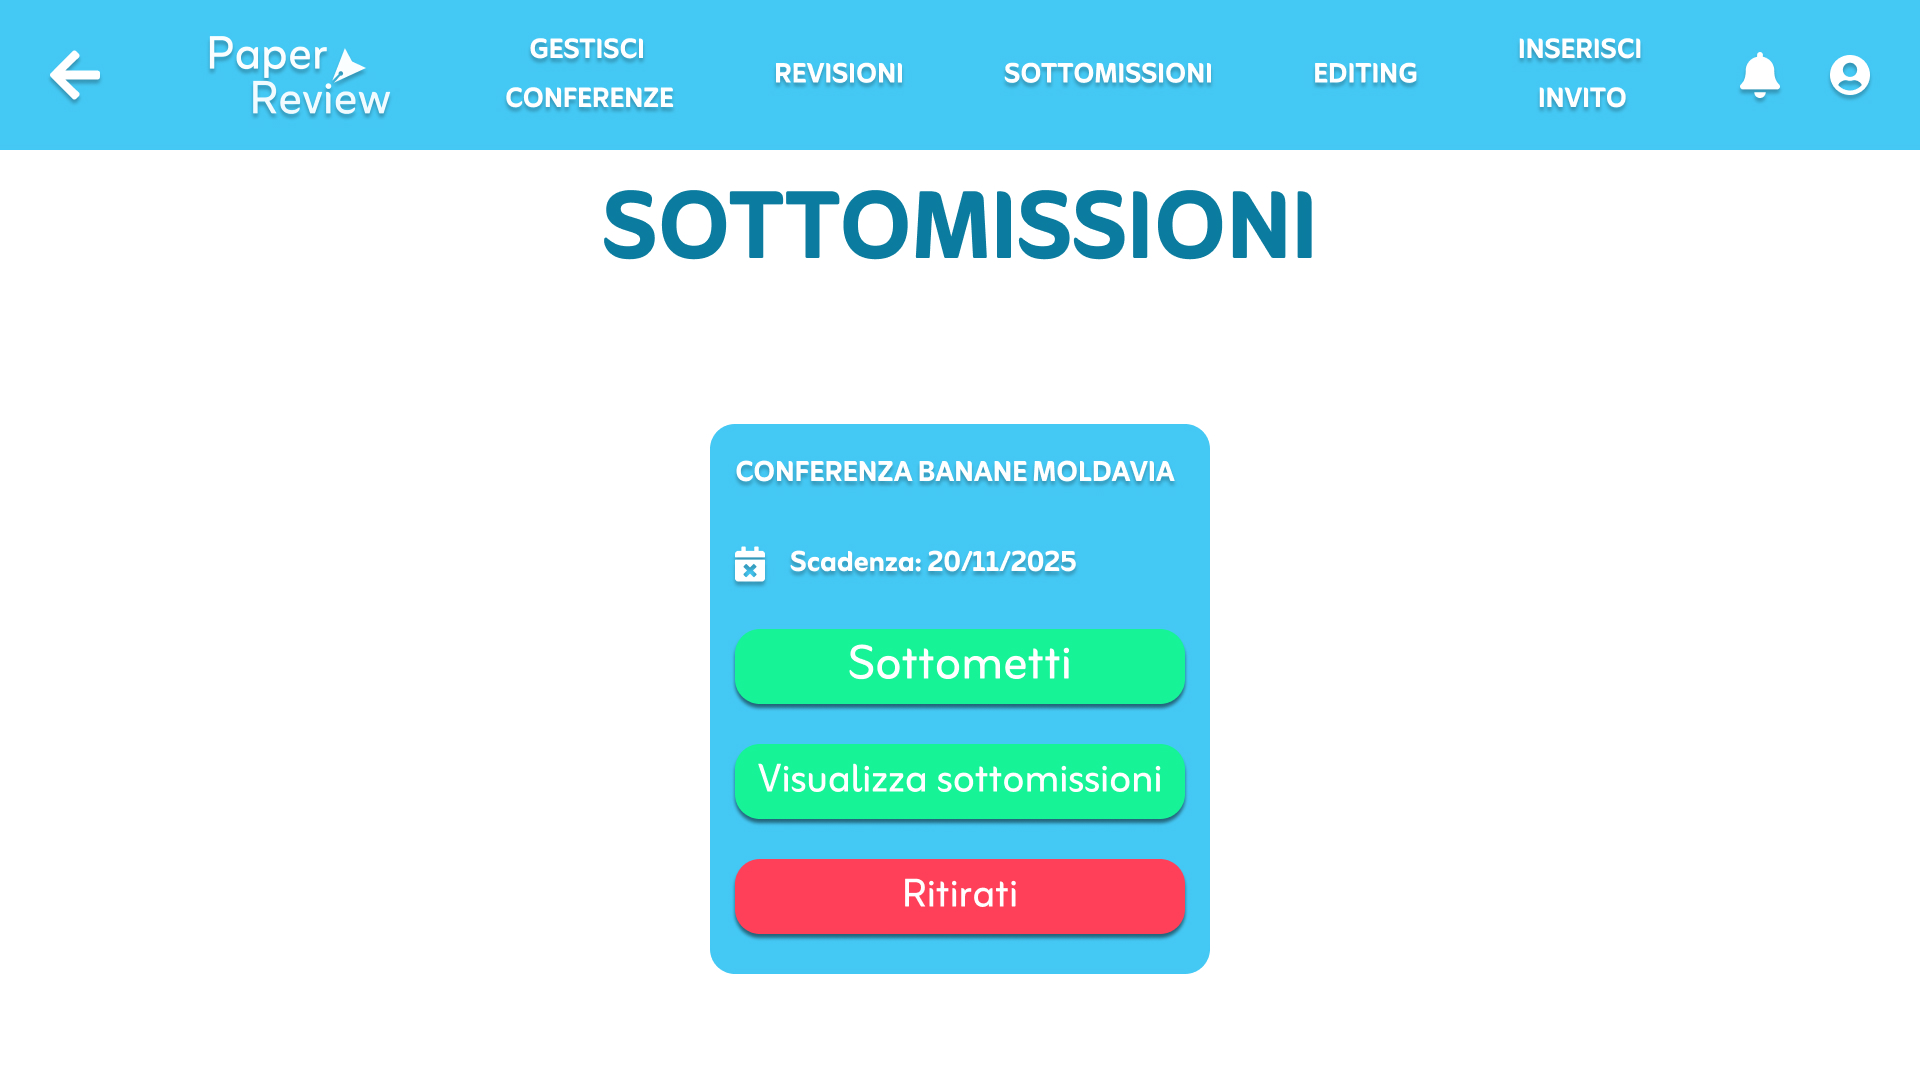
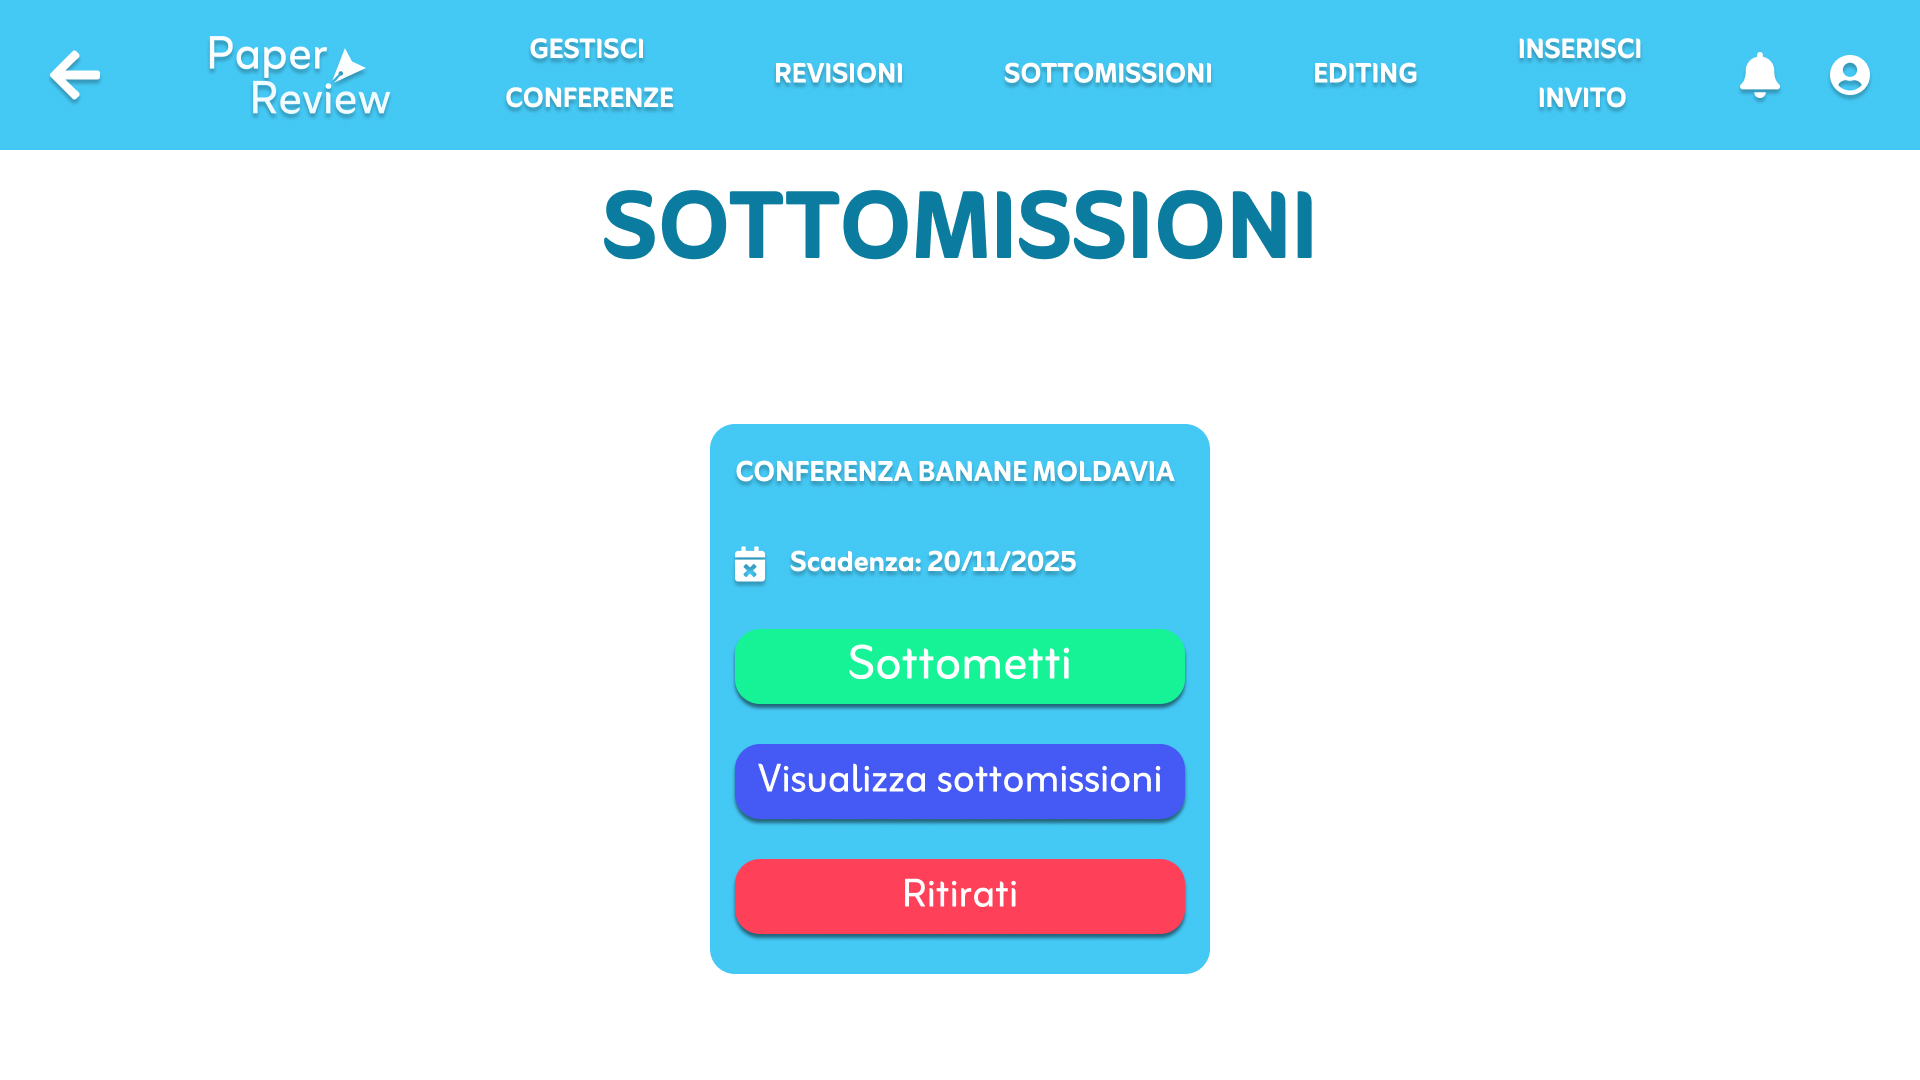
Piccole modifiche di QOL ed inizio sottomissioni

Changed region(s): [[0.375, 0.6722, 0.625, 0.7639]]

diff --git a/Codice/Paper Review/src/main/java/com/paperreview/paperreview/presentazioneArticolo/controls/VisualizzaSchermataSottomissioniControl.java b/Codice/Paper Review/src/main/java/com/paperreview/paperreview/presentazioneArticolo/controls/VisualizzaSchermataSottomissioniControl.java
@@ -1,0 +1,197 @@
+package com.paperreview.paperreview.presentazioneArticolo.controls;
+
+import com.paperreview.paperreview.common.CustomDateParser;
+import com.paperreview.paperreview.common.UserContext;
+import com.paperreview.paperreview.common.dbms.DBMSBoundary;
+import com.paperreview.paperreview.common.dbms.dao.ConferenzaDao;
+import com.paperreview.paperreview.common.dbms.dao.RuoloConferenzaDao;
+import com.paperreview.paperreview.common.interfaces.ControlledScreen;
+import com.paperreview.paperreview.controls.MainControl;
+import com.paperreview.paperreview.entities.ConferenzaEntity;
+import com.paperreview.paperreview.entities.Ruolo;
+import com.paperreview.paperreview.entities.RuoloConferenzaEntity;
+import javafx.fxml.FXML;
+import javafx.geometry.Insets;
+import javafx.geometry.Pos;
+import javafx.scene.Node;
+import javafx.scene.control.Alert;
+import javafx.scene.control.Button;
+import javafx.scene.control.ButtonType;
+import javafx.scene.control.Label;
+import javafx.scene.layout.*;
+import javafx.scene.paint.Color;
+import org.kordamp.ikonli.javafx.FontIcon;
+
+import java.sql.SQLException;
+import java.time.LocalDate;
+import java.util.List;
+
+public class VisualizzaSchermataSottomissioniControl implements ControlledScreen {
+
+    @FXML
+    private FlowPane conferenzeContainer;
+
+    private MainControl mainControl;
+
+    @Override
+    public void setMainController(MainControl mainControl) {
+        this.mainControl = mainControl;
+    }
+
+    public void initialize() {
+        try{
+
+            UserContext.setConferenzaAttuale(null);
+            UserContext.setStandaloneInteraction(false);
+
+            ConferenzaDao conferenzaDao = new ConferenzaDao(DBMSBoundary.getConnection());
+            List<ConferenzaEntity> conferenze = conferenzaDao.getAllWhereAutore(UserContext.getUtente().getId());
+
+            if(conferenze.isEmpty())
+            {
+                Label testo = new Label("Non hai ancora creato delle conferenze!");
+                testo.getStyleClass().addAll("font-bold", "text-rosso", "h5");
+                testo.setWrapText(true);
+                testo.setPrefWidth(500);
+                testo.setAlignment(Pos.CENTER);
+
+                conferenzeContainer.getChildren().add(testo);
+            }
+            else
+            {
+                for (ConferenzaEntity conferenza : conferenze) {
+                    Node card = creaConferenzaCard(conferenza);
+                    conferenzeContainer.getChildren().add(card);
+                }
+            }
+        } catch (Exception e) {
+            // TODO: Gestire questo errore
+            throw new RuntimeException(e);
+        }
+
+    }
+
+    private Node creaConferenzaCard(ConferenzaEntity conferenza) {
+        VBox card = new VBox(10);
+        card.getStyleClass().add("conference-card");
+        card.setPrefWidth(300);
+        card.setPadding(new Insets(15));
+
+        // Titolo
+
+        Label title = new Label(conferenza.getNome());
+        title.getStyleClass().addAll("h5", "text-bianco", "font-bold", "ombra");
+        title.setWrapText(true);
+
+        // Scadenza
+
+        FontIcon calendarIcon = new FontIcon("fas-calendar-times"); // icona calendario FontAwesome
+        calendarIcon.setIconSize(16);
+        calendarIcon.setIconColor(Color.WHITE); // o altro colore adatto
+        calendarIcon.getStyleClass().setAll("text-bianco", "ombra");
+
+        Label date = new Label(CustomDateParser.parseDate(conferenza.getDataConferenza()));
+        date.getStyleClass().addAll("h6", "text-bianco", "ombra", "font-light");
+
+        // Metti icona + label in un HBox con spacing
+        HBox dateBox = new HBox(5, calendarIcon, date);
+        dateBox.setAlignment(Pos.CENTER_LEFT);
+
+        /* SPACER */
+
+        /* SPACES (FLESSIBILI) */
+        Region spacer = new Region();
+        VBox.setVgrow(spacer, Priority.ALWAYS);
+
+        /* BOTTONI */
+
+        Button sottometti = new Button("Sottometti");
+        Button visualizzaSottomissioni = new Button("Visualizza sottomissioni");
+        Button ritirati = new Button("Ritirati");
+
+        sottometti.getStyleClass().addAll("green-button");
+        visualizzaSottomissioni.getStyleClass().addAll("blue-button");
+        ritirati.getStyleClass().addAll("red-button");
+
+        sottometti.setPrefWidth(Double.MAX_VALUE);
+        visualizzaSottomissioni.setPrefWidth(Double.MAX_VALUE);
+        ritirati.setPrefWidth(Double.MAX_VALUE);
+
+        sottometti.setOnAction(event -> handleSottometti(conferenza));
+        visualizzaSottomissioni.setOnAction(event -> handleVisualizzaSottomissioni(conferenza));
+        ritirati.setOnAction(event -> handleRitirati(conferenza, card));
+
+        /* COMPOSIZIONE: [Titolo] [Scadenza] [Spacer] [Bottoni] */
+
+        card.getChildren().addAll(title, dateBox, spacer, sottometti, visualizzaSottomissioni, ritirati);
+
+        return card;
+    }
+
+    public void handleSottometti(ConferenzaEntity conferenza)
+    {
+        UserContext.setConferenzaAttuale(conferenza);
+        mainControl.setView("/com/paperreview/paperreview/boundaries/presentazioneArticolo/sottomettiArticolo/sottomettiArticoloBoundary.fxml");
+    }
+
+    public void handleVisualizzaSottomissioni(ConferenzaEntity conferenza)
+    {
+        UserContext.setConferenzaAttuale(conferenza);
+        mainControl.setView("/com/paperreview/paperreview/boundaries/presentazioneArticolo/visualizzaSottomissioni/visualizzaSottomissioniBoundary.fxml");
+    }
+
+    public void handleRitirati(ConferenzaEntity conferenza,  VBox boxConferenza)
+    {
+
+        // Controlla se la data di scadenza per la sottomissione è già passata
+        if (LocalDate.now().isAfter(conferenza.getScadenzaSottomissione().toLocalDate())) {
+            Alert expiredAlert = new Alert(Alert.AlertType.WARNING);
+            expiredAlert.setTitle("Operazione non consentita");
+            expiredAlert.setHeaderText(String.format(
+                    "La scadenza per ritirarsi dalla conferenza \"%s\" è già passata.",
+                    conferenza.getNome()
+            ));
+            expiredAlert.setContentText("Non puoi più ritirarti dopo la scadenza delle sottomissioni.");
+            expiredAlert.showAndWait();
+            return;
+        }
+
+        Alert alert = new Alert(Alert.AlertType.CONFIRMATION);
+        alert.setTitle("Conferma ritiro conferenza");
+        alert.setHeaderText(String.format("Vuoi veramente ritirarti dalla conferenza %s?", conferenza.getNome()));
+        alert.setContentText("Premi OK per confermare, oppure Annulla per annullare.");
+
+        // Aggiungi le opzioni OK e Annulla
+        ButtonType buttonTypeOK = ButtonType.OK;
+        ButtonType buttonTypeCancel = ButtonType.CANCEL;
+        alert.getButtonTypes().setAll(buttonTypeOK, buttonTypeCancel);
+
+        // Mostra il popup e gestisci la risposta dell'utente
+        alert.showAndWait().ifPresent(response -> {
+            if (response == buttonTypeOK) {
+
+                try{
+                    RuoloConferenzaDao ruoloConferenzaDao = new RuoloConferenzaDao(DBMSBoundary.getConnection());
+                    RuoloConferenzaEntity ruoloConferenzaEntity = ruoloConferenzaDao.getByRuoloUtenteAndConferenza(Ruolo.Autore, UserContext.getUtente().getId(), conferenza.getId());
+                    ruoloConferenzaDao.delete(ruoloConferenzaEntity);
+
+                    Alert alert2 = new Alert(Alert.AlertType.INFORMATION);
+                    alert2.setTitle("Conferma ritiro conferenza");
+                    alert2.setHeaderText(String.format(
+                            "Siamo spiacenti che tu abbia deciso di ritirarti dalla conferenza \"%s\". Speriamo di rivederti presto!",
+                            conferenza.getNome()
+                    ));
+                    alert2.setContentText("Premi ok per continuare!");
+                    alert2.showAndWait();
+
+                    conferenzeContainer.getChildren().remove(boxConferenza);
+                }catch(Exception e){
+                    e.printStackTrace();
+                    // TODO: GESTIRE BENE QUEST' ERRORE
+                }
+            }
+        });
+    }
+
+}
+

diff --git a/Codice/Paper Review/src/main/java/com/paperreview/paperreview/common/dbms/dao/ConferenzaDao.java b/Codice/Paper Review/src/main/java/com/paperreview/paperreview/common/dbms/dao/ConferenzaDao.java
@@ -72,6 +72,24 @@ public class ConferenzaDao extends BaseDao<ConferenzaEntity> {
         return results;
     }
 
+    public List<ConferenzaEntity> getAllWhereAutore(int ref_autore){
+        List<ConferenzaEntity> results = new ArrayList<>();
+        String query = "SELECT * FROM " + tableName + " WHERE data_conferenza > ? AND id_conferenza IN (SELECT ref_conferenza FROM Ruolo_conferenza WHERE ruolo = 'Autore' AND ref_utente = ?) ORDER BY data_conferenza";
+        try (PreparedStatement stmt = connection.prepareStatement(query)) {
+            stmt.setTimestamp(1, Timestamp.valueOf(LocalDateTime.now())); // Imposta la data attuale
+            stmt.setInt(2, ref_autore); // Imposta la data attuale
+            try (ResultSet rs = stmt.executeQuery()) {
+                while (rs.next()) {
+                    results.add(mapRow(rs)); // Aggiungi ogni riga trovata
+                }
+            }
+        } catch (SQLException e) {
+            e.printStackTrace();
+        }
+
+        return results;
+    }
+
     @Override
     protected String getInsertQuery() {
         return "INSERT INTO " + tableName + " (nome, descrizione, data_conferenza, location, metodo_assegnazione, metodo_valutazione, paper_previsti, " +

diff --git a/Codice/Paper Review/src/main/java/com/paperreview/paperreview/entities/InvitoEntity.java b/Codice/Paper Review/src/main/java/com/paperreview/paperreview/entities/InvitoEntity.java
@@ -155,9 +155,22 @@ public class InvitoEntity extends BaseEntity {
     }
 
     public static String generaCodice() {
-        int primoBlocco = (int) (Math.random() * 900) + 100; // genera numero tra 100 e 999
-        int secondoBlocco = (int) (Math.random() * 900) + 100; // genera numero tra 100 e 999
-        return String.format("%03d-%03d", primoBlocco, secondoBlocco);
+        String chars = "ABCDEFGHIJKLMNOPQRSTUVWXYZabcdefghijklmnopqrstuvwxyz0123456789";
+        StringBuilder sb = new StringBuilder();
+
+        for (int i = 0; i < 3; i++) {
+            int idx = (int)(Math.random() * chars.length());
+            sb.append(chars.charAt(idx));
+        }
+
+        sb.append('-');
+
+        for (int i = 0; i < 3; i++) {
+            int idx = (int)(Math.random() * chars.length());
+            sb.append(chars.charAt(idx));
+        }
+
+        return sb.toString();
     }
 
     public static InvitoEntity creaInvito(String email, Ruolo ruolo, int refConferenza, int refMittente, Integer refDestinatario, LocalDateTime scadenza) {

diff --git a/Codice/Paper Review/src/main/java/com/paperreview/paperreview/gestioneConferenze/controls/GestioneConferenzeControl.java b/Codice/Paper Review/src/main/java/com/paperreview/paperreview/gestioneConferenze/controls/GestioneConferenzeControl.java
@@ -33,6 +33,10 @@ public class GestioneConferenzeControl implements ControlledScreen {
 
     public void initialize() {
         try{
+
+            UserContext.setConferenzaAttuale(null);
+            UserContext.setStandaloneInteraction(false);
+
             ConferenzaDao conferenzaDao = new ConferenzaDao(DBMSBoundary.getConnection());
             List<ConferenzaEntity> conferenze = conferenzaDao.getAll(UserContext.getUtente().getId());
 
@@ -133,7 +137,7 @@ public class GestioneConferenzeControl implements ControlledScreen {
         buttonGrid.setMaxWidth(500);
 
         Button buttonPosticipaScadenze = new Button("Posticipa Scadenze");
-        Button buttonvisualizzaPapers = new Button("Visualizza papers");
+        Button buttonvisualizzaPapers = new Button("Visualizza Papers");
         Button buttonAggiungiChair = new Button("Aggiungi Chair");
         Button buttonAggiungiRevisore = new Button("Aggiungi Revisore");
         Button buttonVisualizzaRevisori = new Button("Visualizza Revisori");

diff --git a/Codice/Paper Review/src/main/java/com/paperreview/paperreview/common/dbms/dao/RuoloConferenzaDao.java b/Codice/Paper Review/src/main/java/com/paperreview/paperreview/common/dbms/dao/RuoloConferenzaDao.java
@@ -115,4 +115,21 @@ public class RuoloConferenzaDao extends BaseDao<RuoloConferenzaEntity> {
         }
         return idUtenti;
     }
+
+    public RuoloConferenzaEntity getByRuoloUtenteAndConferenza(Ruolo ruolo, int refUtente, int refConferenza) throws SQLException {
+        String query = "SELECT * FROM " + tableName + " WHERE ruolo = ? AND ref_utente = ? AND ref_conferenza = ?";
+        try (PreparedStatement stmt = connection.prepareStatement(query)) {
+            stmt.setString(1, ruolo.toString()); // oppure .getValoreDb() se usi valori custom
+            stmt.setInt(2, refUtente);
+            stmt.setInt(3, refConferenza);
+            try (ResultSet rs = stmt.executeQuery()) {
+                if (rs.next()) {
+                    return mapRow(rs);
+                }
+            }
+        }
+        return null;
+    }
+
+
 }

diff --git a/Codice/Paper Review/src/main/java/com/paperreview/paperreview/gestioneConferenze/controls/InvitaChairControl.java b/Codice/Paper Review/src/main/java/com/paperreview/paperreview/gestioneConferenze/controls/InvitaChairControl.java
@@ -44,6 +44,9 @@ public class InvitaChairControl implements ControlledScreen {
     private Button continueButton;
 
     @FXML
+    private Label optionalLabel;
+
+    @FXML
     private FlowPane chairContainer;
 
     @FXML
@@ -66,6 +69,9 @@ public class InvitaChairControl implements ControlledScreen {
 
         addButton.setDisable(true);
         errorLabel.setVisible(false);
+
+        if(UserContext.isStandaloneInteraction())
+            optionalLabel.setVisible(false);
 
         Form form = invitaChairForm.createForm();
         FormRenderer formRenderer = new FormRenderer(form);

diff --git a/Codice/Paper Review/src/main/java/module-info.java b/Codice/Paper Review/src/main/java/module-info.java
@@ -38,4 +38,7 @@ module com.paperreview.paperreview {
     // Export the package containing your controller to javafx.fxml module
     exports com.paperreview.paperreview.gestioneConferenze.controls to javafx.fxml;
     opens com.paperreview.paperreview.gestioneConferenze.controls to javafx.fxml;
+
+    exports com.paperreview.paperreview.presentazioneArticolo.controls to javafx.fxml;
+    opens com.paperreview.paperreview.presentazioneArticolo.controls to javafx.fxml;
 }

diff --git a/Codice/Paper Review/src/main/java/com/paperreview/paperreview/controls/MainControl.java b/Codice/Paper Review/src/main/java/com/paperreview/paperreview/controls/MainControl.java
@@ -141,7 +141,7 @@ public class MainControl {
     }
 
     public void handleSottomissioni(){
-        setView("/com/paperreview/paperreview/boundaries/sottomissioni/sottomissioniBoundary.fxml");
+        setView("/com/paperreview/paperreview/boundaries/presentazioneArticolo/visualizzaSchermataSottomissioni/visualizzaSchermataSottomissioniBoundary.fxml");
     }
 
     public void handleEditing(){

diff --git a/Codice/Paper Review/src/main/java/com/paperreview/paperreview/gestioneAccount/forms/LoginFormModel.java b/Codice/Paper Review/src/main/java/com/paperreview/paperreview/gestioneAccount/forms/LoginFormModel.java
@@ -12,7 +12,7 @@ public class LoginFormModel {
 
     // email con validazione built-in e regex personalizzata
     private StringField email = Field.ofStringType("")
-            .label("email")
+            .label("Email")
             .placeholder("Inserisci la tua email")
             .styleClass("form-field")
             .validate(
